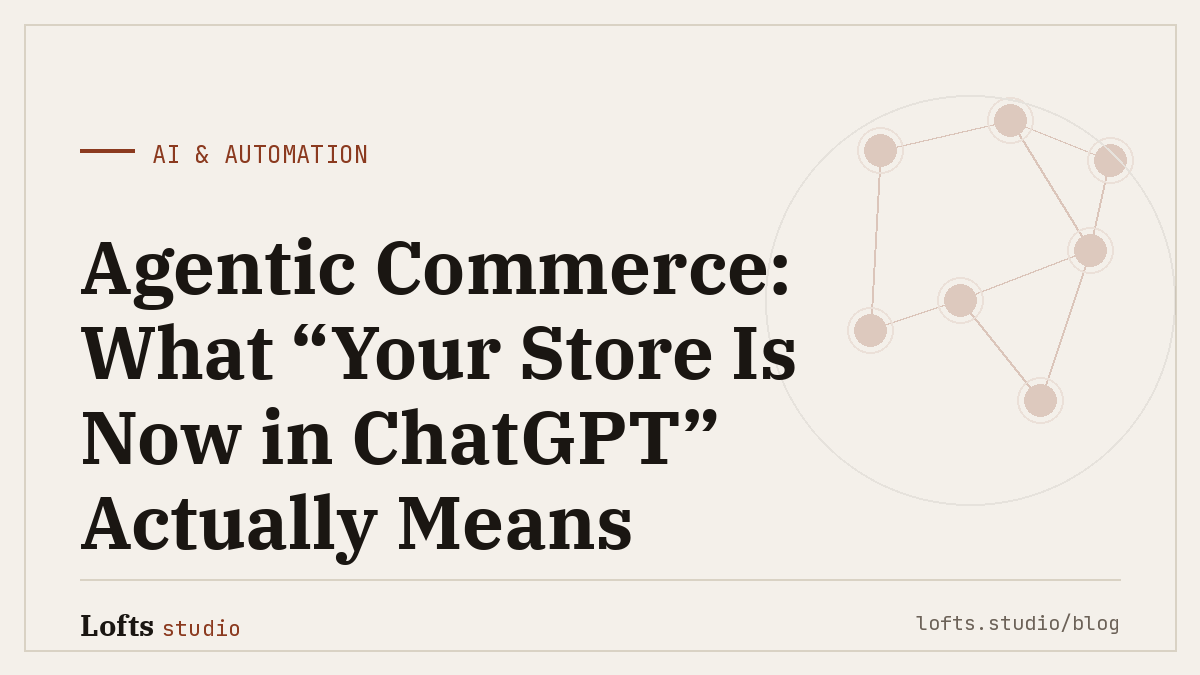
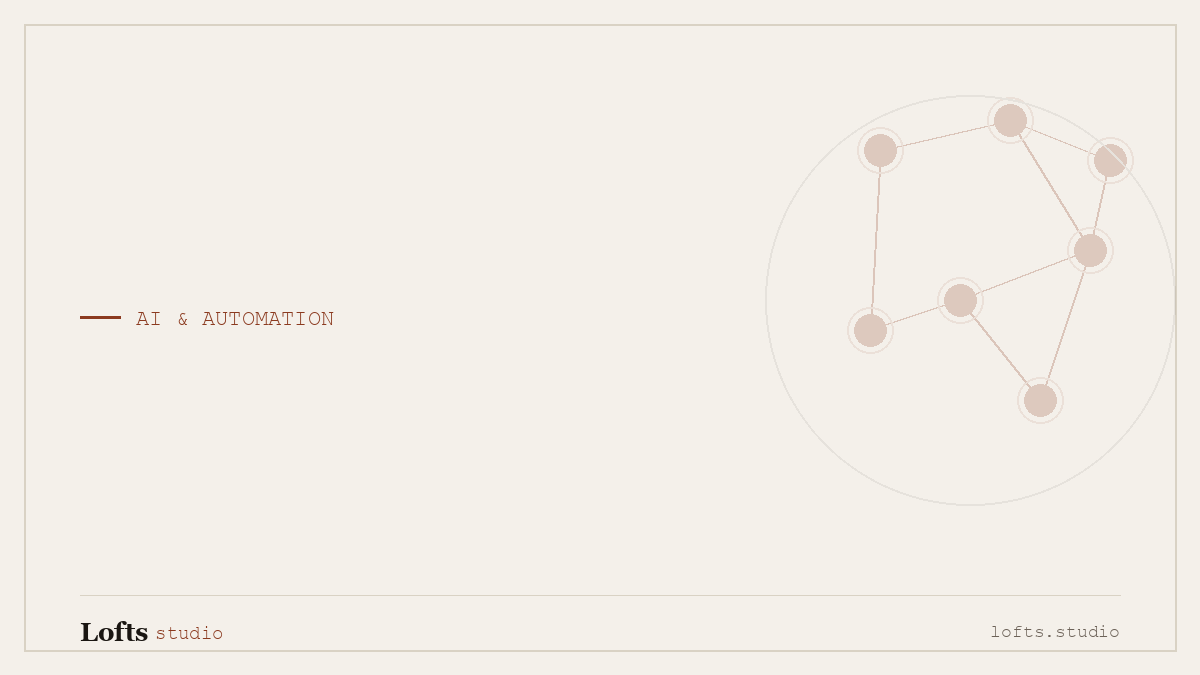
Blog covers: remove title text, motif-only thumbnails
Covers were showing huge overflowing title text in card thumbnails.
Redesigned to pure visual (motif + category kicker + wordmark) — the
card title below the image already carries the text. Also fixed
generator to use macOS system fonts (Georgia, Courier New).

diff --git a/scripts/generate_blog_covers.py b/scripts/generate_blog_covers.py
@@ -17,28 +17,26 @@ from PIL import Image, ImageDraw, ImageFont
 
 ROOT = Path(__file__).resolve().parent.parent
 OUT_DIR = ROOT / "assets" / "blog"
-FONTS = Path("/mnt/skills/examples/canvas-design/canvas-fonts")
-
 W, H = 1200, 675
 
 # ── Brand palette (light) ─────────────────────────────────────────────
-CREAM       = (244, 240, 234)   # --bg
-PAPER       = (251, 248, 242)   # --surface
-INK         = (26, 22, 18)      # --ink
-INK_SOFT    = (42, 36, 30)      # --ink-soft
-MUTED       = (108, 98, 88)     # --muted
-LINE        = (217, 210, 196)   # --line
-ACCENT      = (139, 58, 31)     # --accent
-ACCENT_DEEP = (111, 44, 22)     # --accent-deep
+CREAM       = (244, 240, 234)
+INK         = (26, 22, 18)
+MUTED       = (108, 98, 88)
+LINE        = (217, 210, 196)
+ACCENT      = (139, 58, 31)
 
-# ── Fonts ─────────────────────────────────────────────────────────────
+# ── Fonts (system fonts on macOS) ─────────────────────────────────────
+_SYSFONT = Path("/System/Library/Fonts/Supplemental")
+_LIBFONT = Path("/Library/Fonts")
+
+SERIF      = str(_SYSFONT / "Georgia Bold.ttf")
+SERIF_REG  = str(_SYSFONT / "Georgia.ttf")
+MONO       = str(_SYSFONT / "Courier New.ttf")
+MONO_BOLD  = str(_SYSFONT / "Courier New Bold.ttf")
+
 def font(name, size):
-    return ImageFont.truetype(str(FONTS / name), size)
-
-SERIF      = "IBMPlexSerif-Bold.ttf"      # ~ Source Serif 4 (display)
-SERIF_REG  = "IBMPlexSerif-Regular.ttf"
-MONO       = "JetBrainsMono-Regular.ttf"  # exact brand mono
-MONO_BOLD  = "JetBrainsMono-Bold.ttf"
+    return ImageFont.truetype(name, size)
 
 
 # ── Category → accent tint + motif ────────────────────────────────────
@@ -165,39 +163,31 @@ def render(post):
     d = ImageDraw.Draw(img)
 
     MX = 80                      # left margin for text
-    # kicker: accent rule + category (mono, upper)
-    d.line([(MX, 150), (MX+54, 150)], fill=ACCENT, width=4)
-    kick = cat.upper()
-    d.text((MX+72, 138), kick, font=font(MONO, 24), fill=ACCENT)
 
-    # title (serif, ink), wrapped & auto-sized
-    fnt, lines, size = fit_title(d, title, max_w=W-MX-300, max_lines=4)
-    lh = int(size * 1.16)
-    block_h = lh * len(lines)
-    ty = 250 if block_h <= 280 else 218
-    for ln in lines:
-        d.text((MX, ty), ln, font=fnt, fill=INK)
-        ty += lh
+    # category kicker: accent rule + label (mono, upper) — centred vertically
+    kick_y = H // 2 - 20
+    d.line([(MX, kick_y), (MX+40, kick_y)], fill=ACCENT, width=3)
+    d.text((MX+56, kick_y - 11), cat.upper(), font=font(MONO, 22), fill=ACCENT)
 
     # footer rule
-    fy = H - 96
-    d.line([(MX, fy), (W-MX, fy)], fill=LINE, width=2)
+    fy = H - 80
+    d.line([(MX, fy), (W-MX, fy)], fill=LINE, width=1)
 
-    # wordmark bottom-left: "Lofts" serif + "studio" mono accent
-    wm_y = H - 70
-    d.text((MX, wm_y), "Lofts", font=font(SERIF, 30), fill=INK)
-    lw = d.textlength("Lofts", font=font(SERIF, 30))
-    d.text((MX+lw+8, wm_y+8), "studio", font=font(MONO, 22), fill=ACCENT)
+    # wordmark bottom-left
+    wm_y = H - 58
+    d.text((MX, wm_y), "Lofts", font=font(SERIF, 26), fill=INK)
+    lw = d.textlength("Lofts", font=font(SERIF, 26))
+    d.text((MX+lw+7, wm_y+6), "studio", font=font(MONO, 19), fill=ACCENT)
 
     # bottom-right: domain (mono, muted)
-    url = "lofts.studio/blog"
-    uw = d.textlength(url, font=font(MONO, 20))
-    d.text((W-MX-uw, wm_y+4), url, font=font(MONO, 20), fill=MUTED)
+    url = "lofts.studio"
+    uw = d.textlength(url, font=font(MONO, 18))
+    d.text((W-MX-uw, wm_y+5), url, font=font(MONO, 18), fill=MUTED)
 
     OUT_DIR.mkdir(parents=True, exist_ok=True)
     out = OUT_DIR / f"{slug}.png"
     img.save(out, "PNG", optimize=True)
-    return out, size
+    return out
 
 
 def load_posts():
@@ -212,8 +202,8 @@ def main():
     posts = load_posts()
     print(f"Rendering {len(posts)} blog covers → assets/blog/")
     for p in posts:
-        out, size = render(p)
-        print(f"  ✓ {out.relative_to(ROOT)}  ({p['category']}, title@{size}px)")
+        out = render(p)
+        print(f"  ✓ {out.relative_to(ROOT)}  ({p['category']})")
     print("Done.")
 
 
